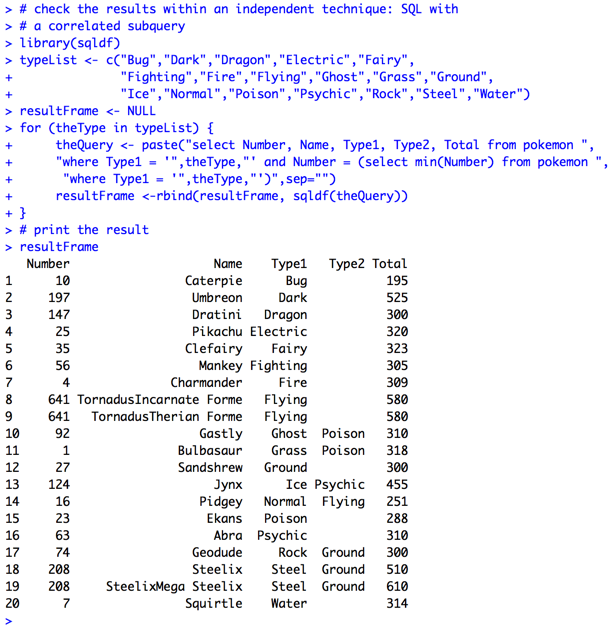
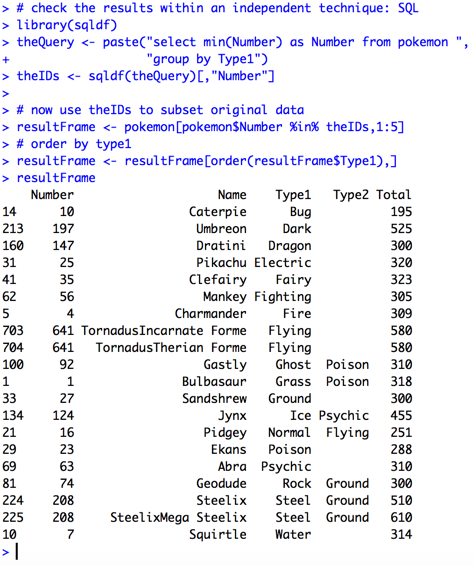
Updated version to use SQL set processing to extract minimum ID numbers, then use to subset original data.

Changed region(s): [[0.0, 0.0, 0.9747, 0.9912], [0.7089, 0.3304, 0.8861, 0.9611]]

diff --git a/markdown/rprog-extractOperator.md b/markdown/rprog-extractOperator.md
@@ -235,21 +235,16 @@ As we can see from the output, the result is a single data frame containing the 
 
 We can verify the results with an independent technique that will be covered in *Getting and Cleaning Data*, the `sqldf()` function. `sqldf()` is an implementation of *Structured Query Language* (SQL) with data frames. We will use this technique because of a specific SQL feature: the correlated subquery. The subquery is required to find the minimum National Pokédex Number for a given type.
 
-    # check the results within an independent technique: SQL with
-    # a correlated subquery
-    library(sqldf)
-    typeList <- c("Bug","Dark","Dragon","Electric","Fairy",
-                  "Fighting","Fire","Flying","Ghost","Grass","Ground",
-                  "Ice","Normal","Poison","Psychic","Rock","Steel","Water")
-    resultFrame <- NULL
-    for (theType in typeList) {
-         theQuery <- paste("select Number, Name, Type1, Type2, Total from pokemon ",
-         "where Type1 = '",theType,"' and Number = (select min(Number) from pokemon ",
-          "where Type1 = '",theType,"')",sep="")
-         resultFrame <-rbind(resultFrame, sqldf(theQuery))
-    }
-    # print the result
-    resultFrame
+     # check the results within an independent technique: SQL 
+     library(sqldf)
+     theQuery <- paste("select min(Number) as Number from pokemon ",
+                       "group by Type1")
+     theIDs <- sqldf(theQuery)[,"Number"]
+     # now use theIDs to subset original data
+     resultFrame <- pokemon[pokemon$Number %in% theIDs,1:5]
+     # order by type1
+     resultFrame <- resultFrame[order(resultFrame$Type1),]
+     resultFrame
 
 <img src="./images/rprog-extractOperator08.png">
 
